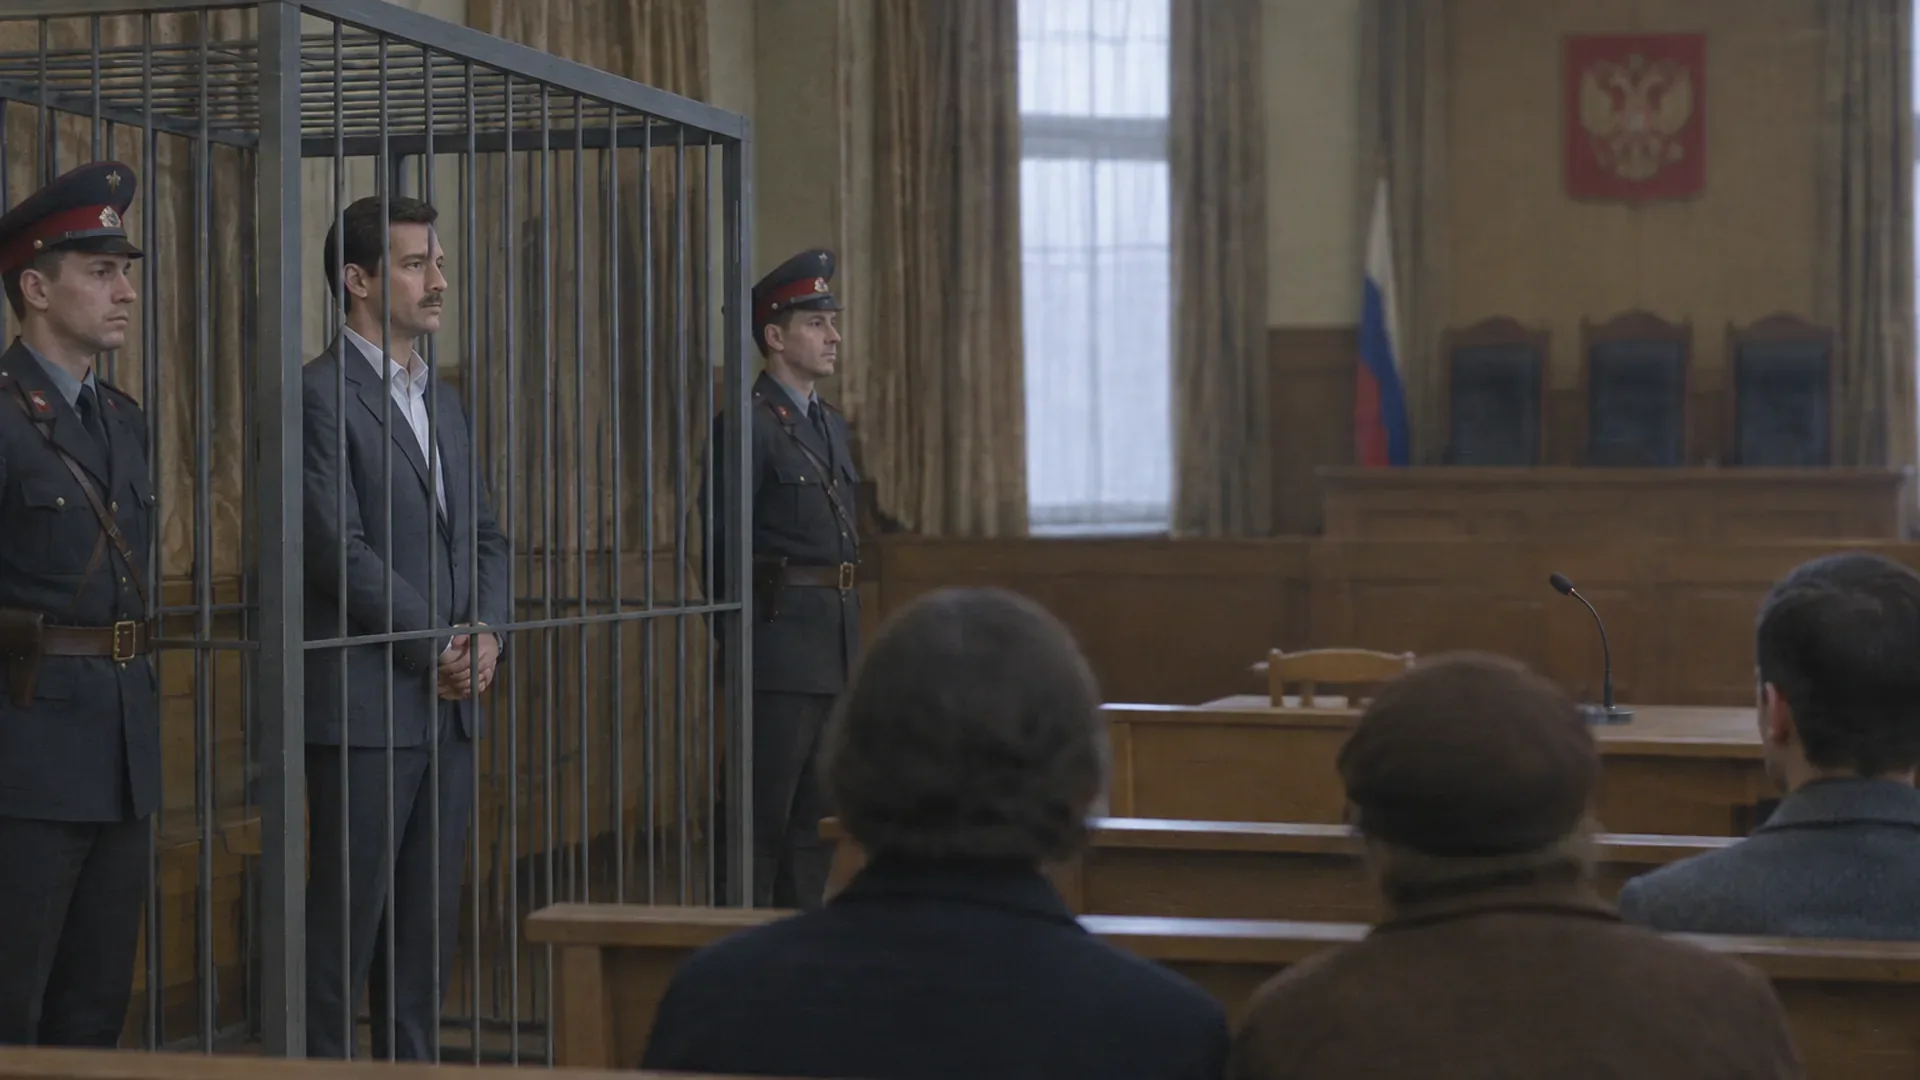
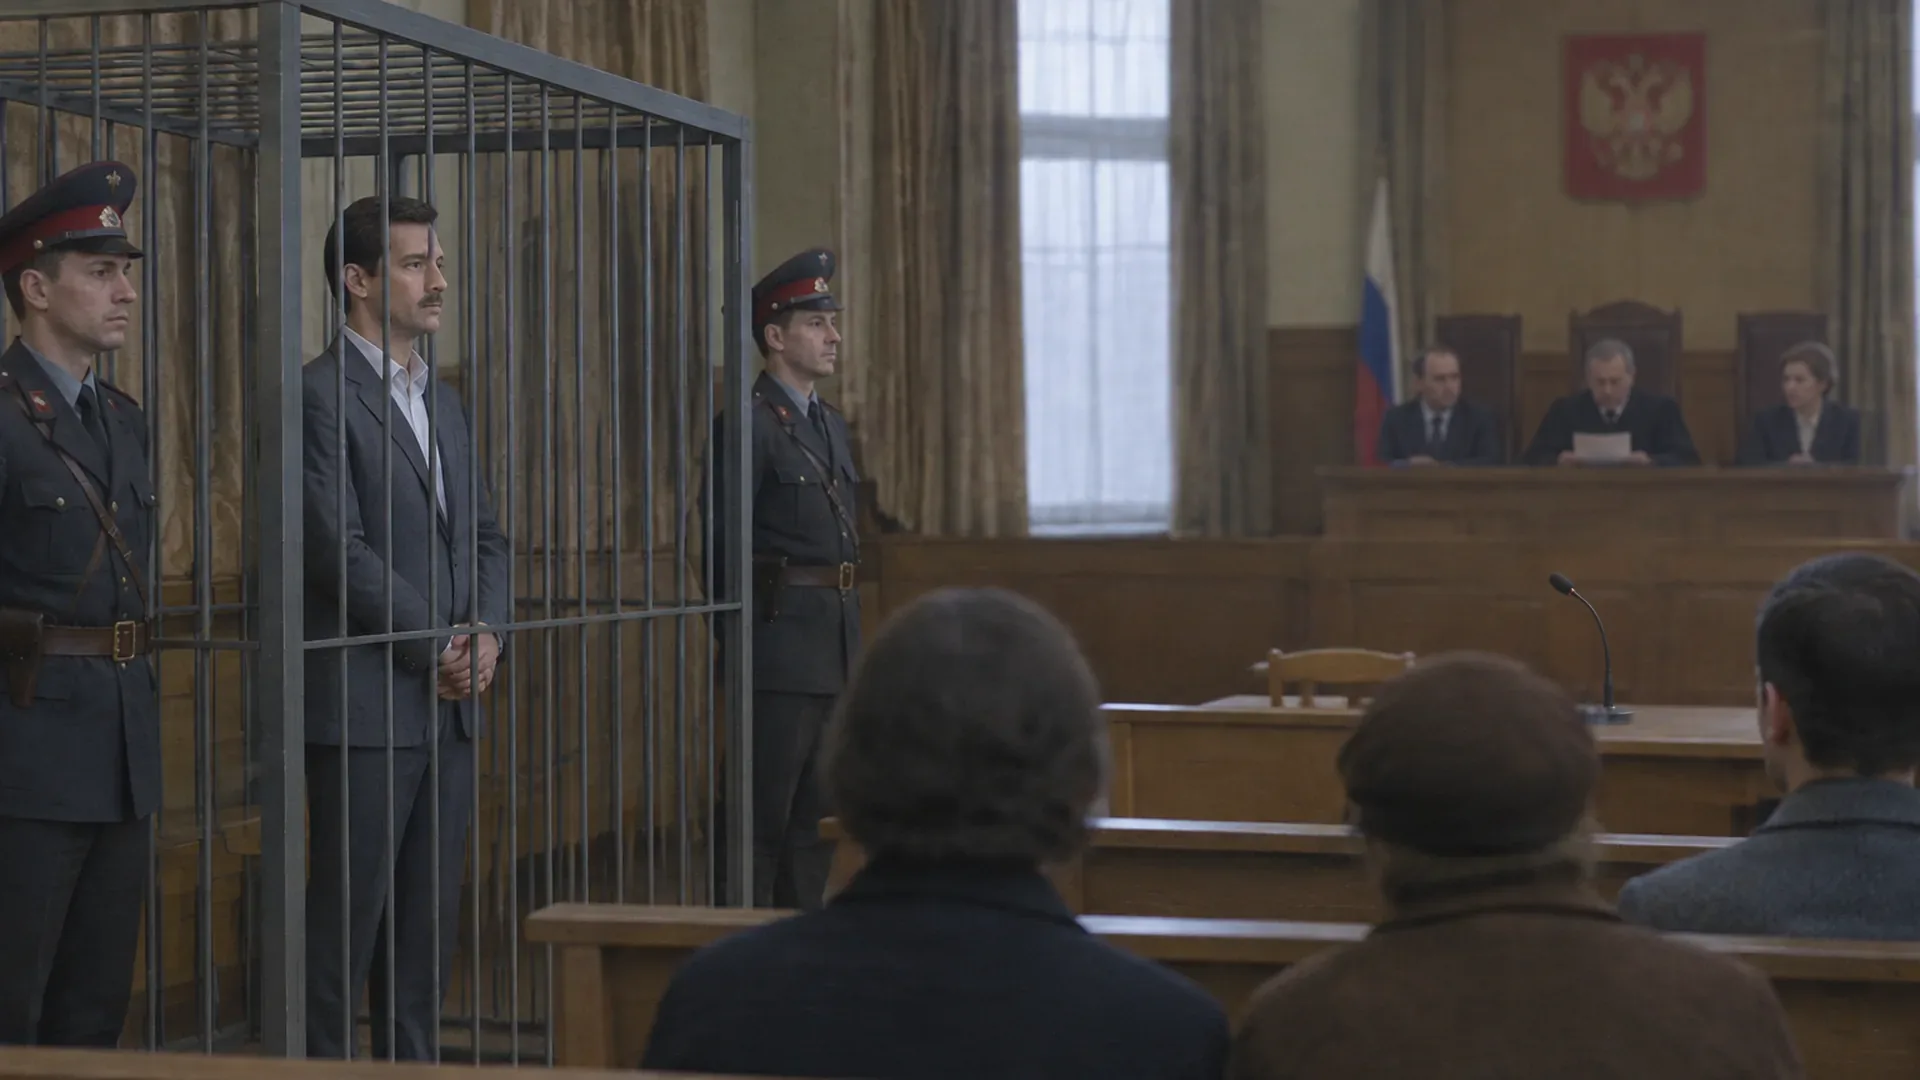
Суд 1994-го: за столом судья и народные заседатели — приговор оглашают не пустым креслам
Пересъёмка суда потеряла судей (в промпте их не было). Правкой по маске в обеих графиках и в квадрате: председательствующий
в мантии читает приговор, по сторонам — народные заседатели. Судьи и прямой микрофон вписаны в листы мизансцен, чтобы
следующая пересъёмка их не теряла. README: страшные кадры.

Changed region(s): [[0.7188, 0.275, 0.875, 0.4278], [0.9062, 0.3056, 0.9688, 0.4278]]

diff --git a/tools/hod/shots.py b/tools/hod/shots.py
@@ -630,9 +630,9 @@ shot('confront_wide', 'hod_interrog', 'wide', 'interrog', f'{FRIDAY}, about 1 p.
 # Развязка.
 shot('court_wide', 'hod_court', 'wide', 'court', 'Moscow, 1994, a grey daytime', 'Indoors; the season is not visible: the tall windows show only a pale grey sky.',
      {'murashov': 'stands INSIDE a closed defendants\' cage on the LEFT, fully behind its front bars, hands folded in front of him, neat and expressionless, looking toward the judges\' bench, not at the camera'},
-     'The camera stands among the public benches at seated eye level, a 32 mm-equivalent field of view: the cage on the LEFT is a closed box of vertical steel bars on every visible side — front, side and top rail — with a closed barred door; the bars run unbroken in front of Murashov\'s whole body; no opening, gap or missing bars anywhere. Two militiamen stand OUTSIDE the cage beside it. The judges\' bench far away out of focus, the backs of a few people on the benches in the foreground; the lower third of the frame is kept free of faces.',
+     'The camera stands among the public benches at seated eye level, a 32 mm-equivalent field of view: the cage on the LEFT is a closed box of vertical steel bars on every visible side — front, side and top rail — with a closed barred door; the bars run unbroken in front of Murashov\'s whole body; no opening, gap or missing bars anywhere. Two militiamen stand OUTSIDE the cage beside it. Far away, out of focus, behind the judges\' bench: the presiding judge in a black robe reads the verdict from a sheet of paper, a people\'s assessor in a dark suit on either side of her or him; a plain black gooseneck microphone (one curved stem, no crossbar) on the clerk\'s desk. The backs of a few people on the benches in the foreground; the lower third of the frame is kept free of faces.',
      'flat grey daylight from the tall windows', 'the cage, the bench, the curtains, the wood panelling',
-     ['face:murashov'], costume={'murashov': 'a dark grey suit, a white shirt, no tie'}, note='Суд 1994-го: только Мурашов в клетке; судья вдали, не в фокусе.')
+     ['face:murashov'], costume={'murashov': 'a dark grey suit, a white shirt, no tie'}, note='Суд 1994-го: Мурашов в клетке; судья и два народных заседателя вдали, не в фокусе, — приговор оглашают (2026-10-14: были пустые кресла и микрофон-крест).')
 shot('bio_zoya', 'hod_bio', 'insert', 'photo', 'a summer day, about 1985', 'Summer in the photograph: leafy trees.',
      {'zoya': 'about 66, in a light summer dress and a cardigan, sits on a courtyard bench with her arm around her grandson, laughing at something he says, looking at him',
       'grandson': 'sits beside her, grinning up at her'},

diff --git a/tools/hod/memory.py b/tools/hod/memory.py
@@ -543,7 +543,8 @@ STAGING = {
     'court_wide': {'murashov': "stands INSIDE a closed defendants' cage on the LEFT, fully behind its front bars, hands folded, "
                                "in a dark grey suit; the vertical steel bars run unbroken in front of his whole body, the cage "
                                "has no opening and no missing bars; the two militiamen stand OUTSIDE the cage; his eyes toward "
-                               "the judges' bench"},
+                               "the judges' bench, where the presiding judge in a black robe reads the verdict between two people's "
+                               "assessors in dark suits"},
     'field_find': {},
     'agency_closed': {'sledak': 'stands at the closed agency door RIGHT of centre, small in the frame, seen from the side; his eyes on the paper sign on the glass'},
     'gromov_2004': {'sledak_old': 'sits in a leather office chair, turned three-quarter to the RIGHT; his eyes on an unseen interviewer off-camera on the right, never into the lens'},

diff --git a/docs/production/prompts/ep01-hod-shots.md b/docs/production/prompts/ep01-hod-shots.md
@@ -584,10 +584,10 @@
 
 - Время: Moscow, 1994, a grey daytime. Место: court.
 - Sergei Murashov, the apartment dealer: stands INSIDE a closed defendants' cage on the LEFT, fully behind its front bars, hands folded in front of him, neat and expressionless, looking toward the judges' bench, not at the camera.
-- Камера: The camera stands among the public benches at seated eye level, a 32 mm-equivalent field of view: the cage on the LEFT is a closed box of vertical steel bars on every visible side — front, side and top rail — with a closed barred door; the bars run unbroken in front of Murashov's whole body; no opening, gap or missing bars anywhere. Two militiamen stand OUTSIDE the cage beside it. The judges' bench far away out of focus, the backs of a few people on the benches in the foreground; the lower third of the frame is kept free of faces.
+- Камера: The camera stands among the public benches at seated eye level, a 32 mm-equivalent field of view: the cage on the LEFT is a closed box of vertical steel bars on every visible side — front, side and top rail — with a closed barred door; the bars run unbroken in front of Murashov's whole body; no opening, gap or missing bars anywhere. Two militiamen stand OUTSIDE the cage beside it. Far away, out of focus, behind the judges' bench: the presiding judge in a black robe reads the verdict from a sheet of paper, a people's assessor in a dark suit on either side of her or him; a plain black gooseneck microphone (one curved stem, no crossbar) on the clerk's desk. The backs of a few people on the benches in the foreground; the lower third of the frame is kept free of faces.
 - Свет: flat grey daylight from the tall windows.
 - Предметы: the cage, the bench, the curtains, the wood panelling.
-- Пометка: Суд 1994-го: только Мурашов в клетке; судья вдали, не в фокусе.
+- Пометка: Суд 1994-го: Мурашов в клетке; судья и два народных заседателя вдали, не в фокусе, — приговор оглашают (2026-10-14: были пустые кресла и микрофон-крест).
 - Референсы: face:murashov
 
 ## `bio_zoya` — insert, сет `hod_bio`

diff --git a/README.md b/README.md
@@ -88,6 +88,8 @@ python3 tools/vnexpr_test.py                                            # сам
   «Воспоминания»): в «Ходе следствия» все 34 кадра и 20 фонов нарисованы как графический роман, 16:9 и квадратом для
   телефона. «Ход следствия» написан целиком, дни 1–5 и развязка (≈45 минут, три концовки). Для дней 3–5 сняты 26
   черновых кадров «Реализма» и 24 кадра «Воспоминаний» с квадратами (фото жертв — фотографии в обоих режимах).
+  Страшные кадры — приёмом передачи (`docs/production/prompts/scary-frames.md`): находка в лесополосе — тело красной
+  пиксельной фигурой, признание Шмелёва и слова вежливого человека в реконструкции — силуэт без лица на красном.
   Озвучки нет.
 - Дальше: прогон на телефоне → песочница Playgama → заморозка русского текста → перевод en/es/pt
   (`docs/production/roadmap.md`). Русский — первоисточник всего контента.
